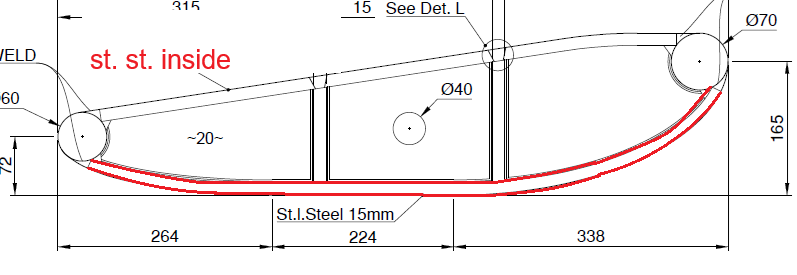
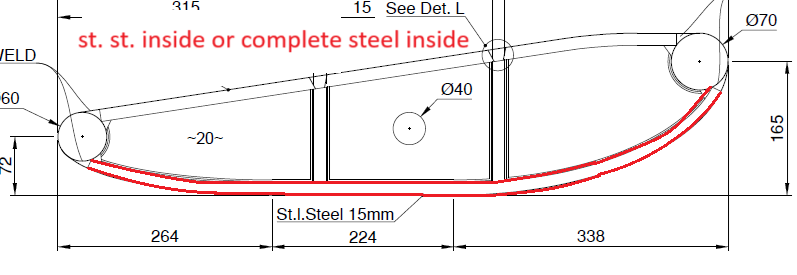
WIP: working on instructions to calculator

Changed region(s): [[0.0903, 0.1164, 0.6023, 0.2909]]

diff --git a/components/helpModals/InnerRingHelp.tsx b/components/helpModals/InnerRingHelp.tsx
@@ -1,31 +1,65 @@
 import React from 'react'
+import { Callout } from '../ui/callout/Callout'
+import Image from 'next/image'
 
 const InnerRingHelp = () => {
   return (
-    <div className="help-content space-y-6 text-sm leading-relaxed text-gray-700 dark:text-gray-200">
-      <h2 className="text-xl font-semibold text-gray-900 dark:text-white">How to Select a Nozzle Profile</h2>
+    <div className="help-content text-sm leading-relaxed text-gray-800 dark:text-gray-100 space-y-6">
+      <header className="space-y-1">
+        <h2 className="text-xl font-semibold">Inner ring selection</h2>
+        <p className="text-gray-600 dark:text-gray-300">
+          Choose the correct inner ring type based on the project drawing or
+          the details provided in the inquiry.
+        </p>
+      </header>
 
-      <p>
-        Choosing the correct nozzle profile depends on vessel type, expected thrust, and compatibility with propeller diameter.
-        Below is a quick overview of common profiles:
-      </p>
+      <section className="space-y-3">
 
-      {/* <img
-        src="/images/nozzle-profile-example.png"
-        alt="Nozzle profile diagram"
-        className="w-full rounded-lg shadow-md"
-      /> */}
+        <Callout type="warning" title="Important">
+          Selecting the wrong inner ring may significantly affect the final price.
+        </Callout>
+      </section>
 
-      <h3 className="text-lg font-semibold text-gray-800 dark:text-gray-100 mt-6">Steps to Follow:</h3>
-      <ol className="list-decimal list-inside space-y-2">
-        <li>Determine the required thrust and propeller diameter.</li>
-        <li>Compare the performance curves of available profiles.</li>
-        <li>Select the profile that balances efficiency and structural needs.</li>
-      </ol>
-
-      <p className="italic text-gray-600 dark:text-gray-400">
-        Note: Type 19A is typically used in higher-speed applications with limited space.
-      </p>
+      <section className="space-y-3">
+        <h3 className="text-lg font-semibold">Inner rings examples</h3>
+        <p className='text-gray-600 dark:text-gray-300'>Below are typical examples of inner ring types commonly used in nozzle construction.</p>
+        <ul className="list-disc list-inside space-y-1">
+          <li>
+            <strong>Complete stainless steel inside</strong>
+            <Image
+              src="/helpImages/profile_01 - st.st. inside.png" // put file into /public/images
+              alt="Annotated nozzle diagram"
+              width={600}
+              height={400}
+              className="w-full h-auto object-contain mt-4 mb-8"
+              priority // optional: loads immediately
+            />
+          </li>
+          <li>
+            <strong>Stainless steel ring in a way of propeller</strong>
+            <Image
+              src="/helpImages/profile_02 - st.st. ring.png" // put file into /public/images
+              alt="Annotated nozzle diagram"
+              width={600}
+              height={400}
+              className="w-full h-auto object-contain mt-4 mb-8"
+              priority // optional: loads immediately
+            />
+          </li>
+          <li>
+            <strong>Stainless steel ring and outlet</strong>
+            <Image
+              src="/helpImages/profile_03 - st.st. ring with outlet.png" // put file into /public/images
+              alt="Annotated nozzle diagram"
+              width={600}
+              height={400}
+              className="w-full h-auto object-contain mt-4 mb-8"
+              priority // optional: loads immediately
+            />
+          </li>
+        </ul>
+        
+      </section>
     </div>
   )
 }

diff --git a/components/helpModals/ProfileHeight.tsx b/components/helpModals/ProfileHeight.tsx
@@ -1,7 +1,7 @@
-import Image from 'next/image'
 import React from 'react'
+import Image from 'next/image'
 
-const DiameterHelp = () => {
+const ProfileHeight = () => {
   return (
     <div className="help-content text-sm leading-relaxed text-gray-800 dark:text-gray-100 space-y-6">
       <header className="space-y-1">
@@ -13,18 +13,18 @@ const DiameterHelp = () => {
       </header>
 
       <section className="space-y-3">
-        <p className='text-gray-600 dark:text-gray-300'>Diameter in weight calculation sheet.</p>
+        <p className='text-gray-600 dark:text-gray-300'>Profile height iameter in weight calculation sheet.</p>
         <Image
-          src="/helpImages/diameter 01 - weight calculation sheet.png" // put file into /public/images
-          alt="Screen from weight calculation sheet showing the place from the diameter is taken"
+          src="/helpImages/profile_height 01 - weight calculation sheet.png" // put file into /public/images
+          alt="Screen from weight calculation sheet showing the place from which the profile height is taken"
           width={600}
           height={400}
           className="w-full h-auto object-contain mt-4 mb-8"
           priority // optional: loads immediately
         />
-        <p className='text-gray-600 dark:text-gray-300'>Diameter on the drawing.</p>
+        <p className='text-gray-600 dark:text-gray-300'>Profile height on the drawing.</p>
         <Image
-          src="/helpImages/diameter 02 - drawing.png" // put file into /public/images
+          src="/helpImages/profile_height 02 - drawing.png" // put file into /public/images
           alt="Screen from weight calculation sheet showing the place from the diameter is taken"
           width={600}
           height={400}
@@ -36,4 +36,4 @@ const DiameterHelp = () => {
   )
 }
 
-export default DiameterHelp
+export default ProfileHeight

diff --git a/components/helpModal/HelpModal.tsx b/components/helpModal/HelpModal.tsx
@@ -2,6 +2,8 @@ import { HelpModalForEnums, HelpModalType } from '@/lib/types';
 import React from 'react'
 import ProfileHelp from '../helpModals/ProfileHelp';
 import InnerRingHelp from '../helpModals/InnerRingHelp';
+import DiameterHelp from '../helpModals/DiameterHelp';
+import ProfileHeight from '../helpModals/ProfileHeight';
 
 const HelpModal = (props: HelpModalType) => {
 
@@ -29,6 +31,8 @@ const HelpModal = (props: HelpModalType) => {
           <div className="mt-8 max-h-[70vh] overflow-y-auto pr-2">
             {modalFor === HelpModalForEnums.nozzleProfile && <ProfileHelp />}
             {modalFor === HelpModalForEnums.nozzleInnerRingType && <InnerRingHelp />}
+            {modalFor === HelpModalForEnums.diameter && <DiameterHelp />}
+            {modalFor === HelpModalForEnums.profileHeight && <ProfileHeight />}
           </div>
         {/* Close button */}
         <button

diff --git a/components/helpModals/exampleInstruction.tsx b/components/helpModals/exampleInstruction.tsx
@@ -45,11 +45,7 @@ const ProfileHelp = () => {
         </ul>
         <div className="rounded-lg overflow-hidden border border-gray-200 dark:border-gray-700">
           {/* Replace src with your asset if you have one */}
-          <img
-            src="/images/example-nozzle-annotated.png"
-            alt="Annotated nozzle diagram"
-            className="w-full h-auto"
-          />
+
         </div>
       </section>
 
